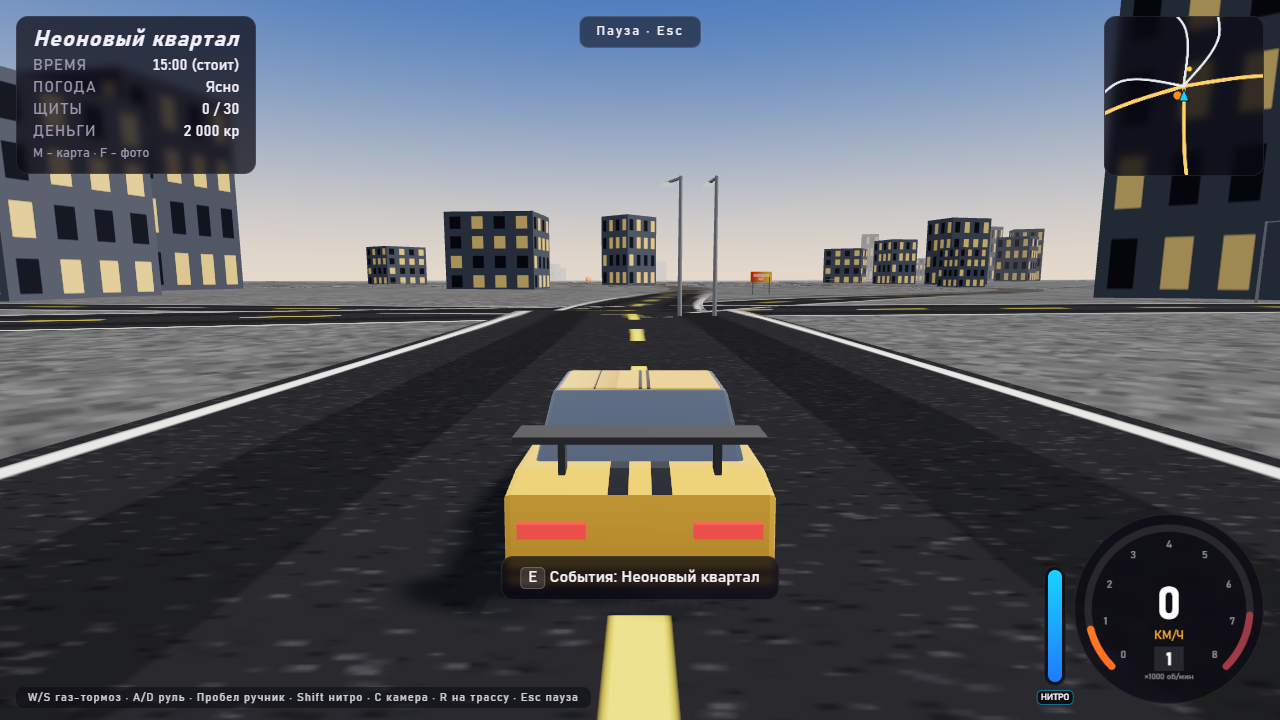
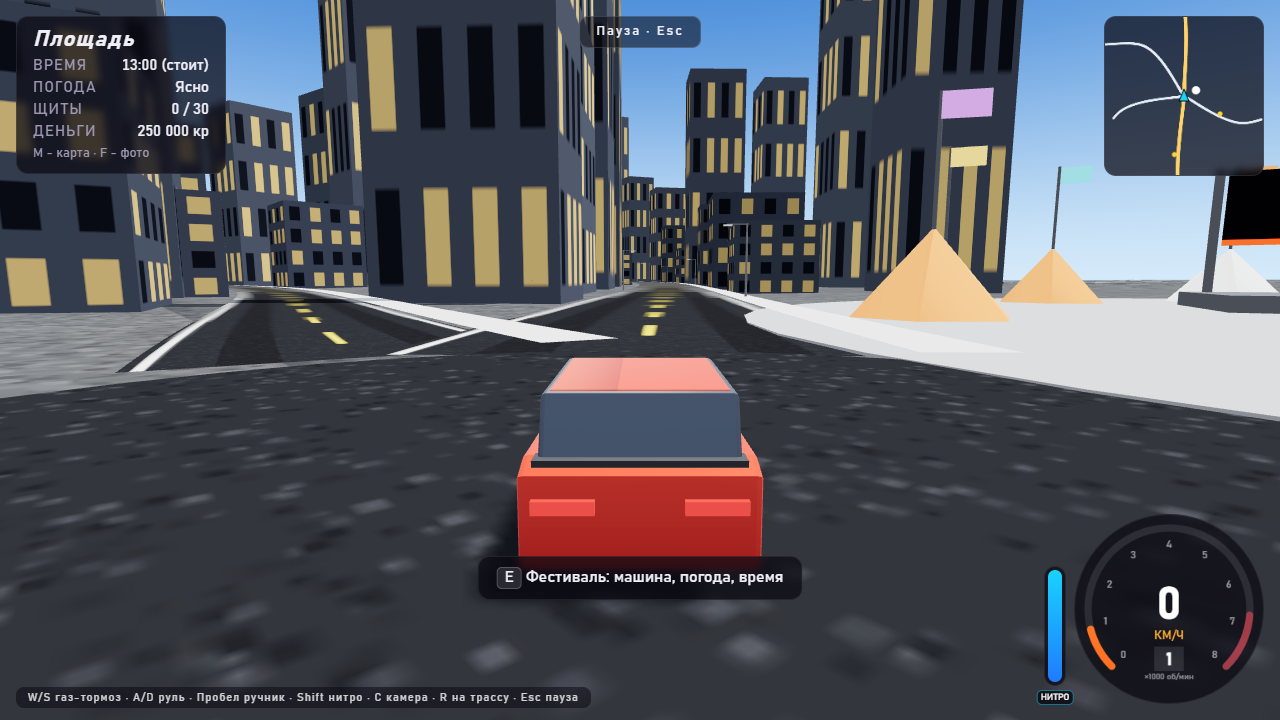
Horizon Drift: снимки мира после второго ревью (город, карта, ночь в дождь, выбор карты, тоннель), заметки о ходе

diff --git a/docs/PROGRESS-drift.md b/docs/PROGRESS-drift.md
@@ -19,10 +19,15 @@
 - Бот-дрифтер грубый, цели дрифта с запасом.
 
 ## Второе ревью мира (27.09)
-- Исправлено всё из списка (мост, тоннели, дома-коробки, погода из своих ключей, ИИ, шейдеры, фары, фестиваль,
-  плотные кварталы, покрытие по точкам, мелочи). Законы в horizon_drift_world.spec.js, всего по Horizon 60 проверок, зелёные.
-- Мутации R2 пойманы все, кроме «ИИ без поправки полосы» (эффект -20% к отклонению от полосы, ниже устойчивого порога).
-- Замер кадров до/после попеременно (машина загружена другими задачами), 1280x720, 20 с езды на автопилоте:
-  после - 0 кадров дольше 33 мс на всех 4 картах, худший 15 мс; до - в пустыне и горах до 24-27 кадров > 33 мс, пики до 0.4 с,
-  а первый кадр после входа в мир был 1-1.3 с из-за сборки шейдеров (теперь прогрев на экране загрузки, загрузка дольше).
-- Осталось: кадры всех карт 1280x720 и 1920x1080 (mix/myshots/shots.js) посмотреть глазами, обновить docs/screens, отчёт.
+- Исправлено всё из списка: мост и тоннели (земля по высоте машины, гора с порталами и сводом, дальний рельеф вырезан),
+  дома - твёрдые коробки, плотные кварталы и небоскрёбы, тротуары и площадки перекрёстков, погода только из своих ключей,
+  ИИ (задний ход, сброс вне взгляда, пропуск на узлах, объезд встречных), шейдеры прогреваются на загрузке, куски строятся
+  по частям, фары и фонари на полотне, фестиваль, покрытие по точкам, дуэль раз в сутки, пауза только от оболочки,
+  карточки карт без переносов, вода у набережной, озеро в горах.
+- Свет фар и пятна фонарей смешиваются «экраном»: асфальт светлеет, разметка не выгорает в белое, фонарь в дождь не заливает обочину.
+- Проверки: tests/web/horizon_drift_*.spec.js - 60, все зелёные (5.8 мин).
+- Мутации второго ревью: 20 из 20 пойманы; «ИИ без поправки полосы» эквивалентный (эффект -20% к отклонению от полосы, ниже устойчивого порога).
+- Замер кадров до/после попеременно, 1280x720, 20 с езды на автопилоте: после - 0 кадров дольше 33 мс на всех 4 картах,
+  p99 7.7-8.7 мс; до - в пустыне и горах до 24-27 кадров > 33 мс, p99 до 61 мс, пики до 0.4 с; первый кадр после входа
+  в мир был 1-1.3 с (сборка шейдеров), теперь 10-17 мс, зато загрузка мира дольше (прогрев на экране загрузки).
+- Снимки: docs/screens/drift-world-*.png (город, карта, ночь в дождь, выбор карты, тоннель).
